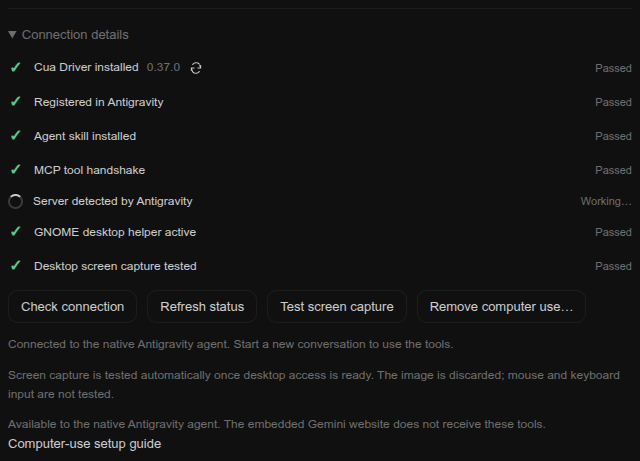
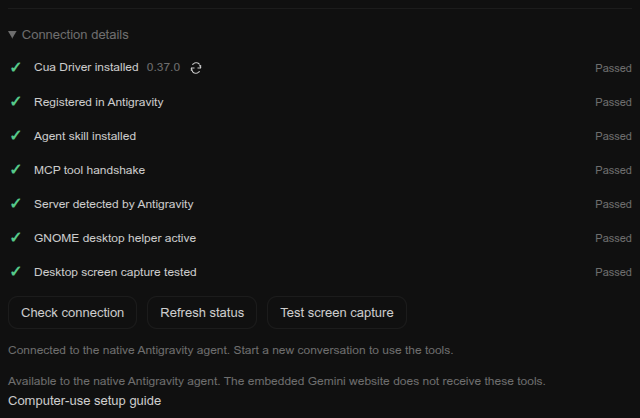
Refine computer-use controls, animate activity indicators and align Settings labels

diff --git a/common/computer-use-settings.js b/common/computer-use-settings.js
@@ -1,7 +1,7 @@
 /* Guided desktop access in a dedicated native Settings page. */
 (() => {
  'use strict';
- const VERSION = '1.4.0';
+ const VERSION = '1.4.1';
  if (globalThis.__AGComputerUse?.version === VERSION) return;
  globalThis.__AGComputerUse?.destroy();
  const i18n = globalThis.__AGPAI18n;
@@ -59,7 +59,12 @@
   t('[data-cu-platform]', loginRequired ? 'Sign out of Linux to activate desktop access' : state.needsHelper ? state.helperInstalled ? 'The GNOME helper is disabled or could not load. Select Repair desktop helper, then refresh status.' : 'The setup will install the GNOME desktop helper. A new sign-in is required to activate it.' : state.session === 'wayland' ? 'Wayland: some apps require foreground input or additional desktop permission.' : state.experimental ? 'Windows support is experimental. Keep the target app visible in your desktop session.' : 'Desktop permissions may be requested when you first use an application.');
   section.querySelector('[data-cu-login-steps]').hidden = !loginRequired;
   t('[data-cu-operation]', state.error ? (errors[state.error] || errors.operationFailed) : working ? 'Working…' : state.enabled ? nativeRefresh ? 'Connected to the native Antigravity agent. Start a new conversation to use the tools.' : 'Start a new agent conversation after connecting. If tools are missing, refresh native MCP settings.' : 'Choose access and enable computer use. Existing Antigravity approvals remain in effect.');
-  t('[data-cu-connect]', working ? 'Preparing computer use…' : state.enabled ? 'Apply access changes' : 'Enable computer use');
+  t('[data-cu-connect]', working ? 'Preparing computer use…' : 'Apply access changes');
+  section.querySelector('[data-cu-connect]').hidden = !state.enabled;
+  const toggle=section.querySelector('[data-cu-toggle]');
+  toggle.setAttribute('aria-checked',String(!!state.enabled));
+  i18n.set(toggle,state.enabled?'Disconnect the agent and keep setup.':'Enable using the access selected below.',{},'title');
+  t('[data-cu-toggle-label]',state.enabled?'Enabled':'Disabled');
   t('[data-cu-removal]', state.removal?.skillRetained ? 'Computer use removed. Your locally edited skill was kept; rename or remove it before setting up again.' : 'Computer use removed. Select Enable computer use for a fresh setup.');
   section.querySelector('[data-cu-removal]').hidden = !state.removal;
   const checks = globalThis.__AGPAComputerUseChecks(state, globalThis.__AGNativeMcp?.status());
@@ -103,6 +108,7 @@
   section.querySelector('[data-cu-capture]').disabled ||= !state.enabled || !!state.needsHelper || state.scope !== 'desktop';
   section.querySelector('[data-cu-helper]').hidden = !state.needsHelper || !state.installed || loginRequired;
   section.querySelector('[data-cu-remove]').disabled ||= !state.installed && !state.registered && !state.skillReady;
+  toggle.disabled = working || !state.platform;
   const updateButton=section.querySelector('[data-cu-updates]');if(updateButton)updateButton.disabled=working||!!update?.checking;
   section.querySelector('[data-cu-progress-close]').disabled=false;section.querySelector('[data-cu-update-close]').disabled=false;
   section.querySelector('[data-cu-progress-stop]').disabled=false;
@@ -168,6 +174,9 @@
   const apps = node('div', {'data-cu-app-scope': '', class: 'agpa-cu-selected'}, node('div', {class: 'agpa-patch-actions'}, select, add), textarea);
   const enable = node('button', {type: 'button', class: 'agpa-app-icon-option agpa-cu-primary', 'data-cu-connect': '', text: 'Enable computer use'});
   enable.addEventListener('click', () => act('setup'));
+  const toggle=node('button',{type:'button',class:'agpa-cu-enable-switch',role:'switch','aria-label':'Computer use','aria-checked':'false','data-cu-toggle':''},
+   node('span',{'data-cu-toggle-label':''}),node('span',{class:'agpa-cu-switch-track','aria-hidden':'true'},node('span',{class:'agpa-cu-switch-thumb'})));
+  toggle.addEventListener('click',()=>act(state.enabled?'disconnect':'setup'));
   const stop = node('button', {type: 'button', class: 'agpa-app-icon-option', 'data-cu-disconnect': '', text: 'Stop and disconnect'});
   stop.addEventListener('click', () => act('disconnect'));
   const advancedActions = node('div', {class: 'agpa-patch-actions'});
@@ -175,9 +184,8 @@
    const button = node('button', {type: 'button', class: 'agpa-app-icon-option', [`data-cu-${key}`]: '', text: label});
    button.addEventListener('click', () => act(action));advancedActions.append(button);
   }
-  const remove = node('button', {type:'button',class:'agpa-app-icon-option','data-cu-remove':'',text:'Remove computer use…'});
+  const remove = node('button', {type:'button',class:'agpa-app-icon-option agpa-cu-danger','data-cu-remove':'',text:'Remove computer use…'});
   remove.addEventListener('click', () => {removal.showModal();cancel.focus();});
-  advancedActions.append(remove);
   const cancel = node('button', {type:'button',class:'agpa-app-icon-option',text:'Cancel'});
   cancel.addEventListener('click', () => removal.close());
   const confirm = node('button', {type:'button',class:'agpa-app-icon-option agpa-cu-danger','data-cu-remove-confirm':'',text:'Remove computer use'});
@@ -210,10 +218,10 @@
    node('p', {text: 'Open Calculator, calculate 6 × 7 and verify the result.'}),
    node('p', {text: 'Check the interface of my app and reproduce the issue visually.'}));
   section = node('section', {class: 'agpa-cu-panel', 'data-agpa-computer-use-setting': ''},
-   node('div', {class: 'agpa-cu-hero'}, node('span', {class: 'agpa-cu-status-dot', 'aria-hidden': 'true'}), node('h3', {'data-cu-connection': '', role: 'status'})),
+   node('div', {class: 'agpa-cu-hero'}, node('span', {class: 'agpa-cu-status-dot', 'aria-hidden': 'true'}), node('h3', {'data-cu-connection': '', role: 'status'}),toggle),
    node('p', {class: 'agpa-cu-summary', 'data-cu-summary': ''}), scopes, apps,
    node('p', {class: 'agpa-cu-muted', text: 'Entire desktop access includes visible screen content. The agent still follows your task and Antigravity approval settings.'}),
-   node('div', {class: 'agpa-patch-actions'}, enable, stop),
+   node('div', {class: 'agpa-cu-controls'}, enable, node('div',{class:'agpa-cu-stop-actions'},stop,remove)),
    node('div', {class: 'agpa-cu-notice'}, node('p', {'data-cu-platform': ''}),
     node('p', {'data-cu-login-steps': '', text: 'Save your work, then choose Log Out / End Session in the Linux system menu and sign in again. Lock / Unlock keeps the same session and does not load the helper. Reopen Antigravity and select Refresh status.'})),
    examples,
@@ -221,7 +229,6 @@
     node('ul', {class:'agpa-cu-checks','data-cu-checks':'','aria-label':'Connection checks'}),
     advancedActions,
     node('p', {class: 'agpa-app-icon-status', 'data-cu-operation': '', role: 'status', 'aria-live': 'polite'}),
-    node('p', {class:'agpa-cu-muted',text:'Screen capture is tested automatically once desktop access is ready. The image is discarded; mouse and keyboard input are not tested.'}),
     removal,node('p',{class:'agpa-cu-notice','data-cu-removal':'',role:'status'}),
     node('p', {class: 'agpa-cu-muted', text: 'Available to the native Antigravity agent. The embedded Gemini website does not receive these tools.'}),
     node('a', {href: 'https://github.com/Riccardo-Vecchi/antigravity-plugin/blob/main/docs/COMPUTER_USE.md', target: '_blank', rel: 'noopener noreferrer', text: 'Computer-use setup guide'})),progressDialog,updateDialog);
@@ -239,6 +246,12 @@
   .agpa-cu-panel{display:flex;flex-direction:column;gap:18px;color:var(--foreground,#eee);font-size:13px}
   .agpa-cu-panel p{margin:0;line-height:1.55}.agpa-cu-hero{display:flex;align-items:center;gap:10px;margin-top:4px}
   .agpa-cu-hero h3{font-size:14px;font-weight:500;margin:0;line-height:1.5}.agpa-cu-status-dot{width:8px;height:8px;flex-shrink:0;background:#888;border-radius:50%}
+  .agpa-cu-enable-switch{display:inline-flex;align-items:center;gap:8px;margin-left:auto;padding:5px 0 5px 10px;border:0;background:transparent;color:inherit;font:inherit;cursor:pointer;white-space:nowrap;flex-shrink:0}
+  .agpa-cu-enable-switch:focus-visible{outline:2px solid #398bdb;outline-offset:4px;border-radius:6px}.agpa-cu-enable-switch:disabled{opacity:.5;cursor:wait}
+  .agpa-cu-switch-track{display:block;position:relative;width:34px;height:20px;background:#666;border-radius:20px}
+  .agpa-cu-switch-thumb{display:block;position:absolute;top:3px;left:3px;width:14px;height:14px;border-radius:50%;background:white}
+  .agpa-cu-enable-switch[aria-checked=true] .agpa-cu-switch-track{background:#398bdb}.agpa-cu-enable-switch[aria-checked=true] .agpa-cu-switch-thumb{left:17px}
+  .agpa-cu-controls{display:flex;align-items:center;justify-content:space-between;gap:12px;flex-wrap:wrap}.agpa-cu-stop-actions{display:flex;gap:8px;margin-left:auto;flex-wrap:wrap}
   .agpa-cu-panel[data-state=enabled] .agpa-cu-status-dot{background:#55c98a}.agpa-cu-panel[data-state=attention] .agpa-cu-status-dot{background:#e5b35e}
   .agpa-cu-panel[data-state=error] .agpa-cu-status-dot{background:#e66d6d}.agpa-cu-summary{color:var(--muted-foreground,#aaa);font-size:14px}
   .agpa-cu-scopes{border:0;padding:0;margin:0;display:grid;grid-template-columns:1fr 1fr;gap:12px}
@@ -264,14 +277,13 @@
   .agpa-cu-confirm:not([open]){display:none}.agpa-cu-confirm[open]{display:flex;flex-direction:column;gap:18px}
   .agpa-cu-confirm::backdrop{background:#0009}.agpa-cu-confirm h3{margin:0;font-size:15px;font-weight:600}
   .agpa-cu-confirm p+p{margin-top:12px}.agpa-cu-confirm .agpa-patch-actions{justify-content:flex-end}
-  .agpa-cu-danger{color:#ef9898!important;border-color:#8e4d4d!important}
-  .agpa-cu-spinner{display:inline-block;box-sizing:border-box;width:15px;height:15px;flex-shrink:0;border:2px solid #7776;border-top-color:currentColor;border-radius:50%;animation:agpa-cu-spin .8s linear infinite}
-  .agpa-cu-rotating{animation:agpa-cu-spin .8s linear infinite}.agpa-cu-confirm h3{display:flex;align-items:center;gap:10px}
+  .agpa-cu-danger{background:#b4232c!important;color:#fff!important;border-color:#c33c45!important}.agpa-cu-danger:hover:not(:disabled){background:#c12b35!important}.agpa-cu-danger:disabled{opacity:.45;cursor:not-allowed}
+  .agpa-cu-spinner{display:inline-block;box-sizing:border-box;width:15px;height:15px;flex-shrink:0;border:2px solid #7776;border-top-color:currentColor;border-radius:50%;animation:agpa-cu-spin .85s linear infinite!important}
+  .agpa-cu-rotating{animation:agpa-cu-spin .85s linear infinite!important}.agpa-cu-confirm h3{display:flex;align-items:center;gap:10px}
   .agpa-cu-progress{width:min(560px,calc(100vw - 48px));max-height:calc(100vh - 48px);overflow:auto}
   .agpa-cu-update-button{display:inline-flex;align-items:center;justify-content:center;vertical-align:middle;margin-left:6px;padding:3px;border:0;border-radius:4px;background:transparent;color:inherit;cursor:pointer}.agpa-cu-update-button:hover{background:#8883}.agpa-cu-update-button:focus-visible{outline:2px solid #398bdb}
   .agpa-cu-confirm a{color:#7ab7f4}.agpa-cu-confirm ul{margin:0}
   @keyframes agpa-cu-spin{to{transform:rotate(360deg)}}
-  @media(prefers-reduced-motion:reduce){.agpa-cu-spinner,.agpa-cu-rotating{animation:none}}
   @media(max-width:700px){.agpa-cu-scopes{grid-template-columns:1fr}}
  `});
  document.head.append(style);

diff --git a/common/settings-navigation.js b/common/settings-navigation.js
@@ -1,7 +1,7 @@
 /* Small, reversible additions to the native Settings navigation. */
 (() => {
  'use strict';
- const VERSION = '1.1.0';
+ const VERSION = '1.1.1';
  if (globalThis.__AGSettingsNavigation?.version === VERSION) return;
  globalThis.__AGSettingsNavigation?.destroy();
  const i18n = globalThis.__AGPAI18n;
@@ -43,7 +43,7 @@
   [data-agpa-cu-active] [data-testid^=settings-nav-item-].bg-sidebar-secondary{background:transparent;color:var(--secondary-foreground,#aaa)}
   [data-agpa-cu-active] [data-testid^=settings-nav-item-].bg-sidebar-secondary>span{color:var(--secondary-foreground,#aaa)}
   [data-agpa-projects-heading]{display:none}
-  [data-agpa-projects-toggle]{display:flex;align-items:center;gap:5px;width:100%;border:0;padding:0;background:none;color:inherit;font:inherit;cursor:pointer;text-align:left}
+  [data-agpa-projects-toggle]{display:flex;align-items:center;gap:5px;width:100%;border:0;padding:0;background:none;color:inherit;font:inherit;font-size:14px;line-height:20px;cursor:pointer;text-align:left}
   [data-agpa-projects-toggle] svg:last-child{margin-left:auto;transition:transform .15s}
   [data-agpa-projects-toggle][aria-expanded=true] svg:last-child{transform:rotate(90deg)}
   [data-agpa-projects-group][data-collapsed=true]{display:none!important}

diff --git a/docs/COMPUTER_USE.md b/docs/COMPUTER_USE.md
@@ -6,7 +6,7 @@ Give the **native Antigravity agent** desktop tools through the maintained [Cua 
 
 1. Open **Settings → Computer use**, its own item in the Settings menu. Settings navigation has icons; its Projects group can be collapsed and uses your configured project appearance.
 2. Choose **Entire desktop** to work across your environment, or **Selected apps** for an application allowlist.
-3. Select **Enable computer use**. A centered progress dialog shows the active step with a spinner, individual checks, and actual downloaded MB. **Continue in background** or Escape hides the dialog while setup continues; **Stop and disconnect** revokes it. Setup downloads the reviewed driver, verifies its SHA-256, installs the GNOME helper when needed, writes this integration's MCP entry and skill, checks the protocol and asks Antigravity to refresh only this server.
+3. Turn on the **Computer use** switch at the top. A centered progress dialog shows the active step with a spinner, individual checks, and actual downloaded MB. **Continue in background** or Escape hides the dialog while setup continues; **Stop and disconnect** revokes it. Setup downloads the reviewed driver, verifies its SHA-256, installs the GNOME helper when needed, writes this integration's MCP entry and skill, checks the protocol and asks Antigravity to refresh only this server.
 4. Follow any OS access prompt. On GNOME/Wayland, the helper needs a **Linux session logout/login once** to load. Save your work, open the system menu → Power → Log Out (on Zorin), then sign in to Linux again. Reopen Antigravity and select **Refresh status**. **Locking/unlocking the screen keeps the same Linux session and does not load the extension.** Closing the app or signing out of Google also does not load it. The wizard never logs you out or restarts your apps.
 5. Start a **new Antigravity conversation** and describe the result you want. Existing conversations can keep their earlier tool list.
 
@@ -16,7 +16,7 @@ Try: “Open Calculator, calculate 6 × 7 and verify the displayed result.” Th
 
 If an upstream app change prevents automatic MCP refresh, use native **Customizations → Installed → MCP Servers**, or its Settings equivalent, and refresh/reopen Antigravity when convenient.
 
-![Computer-use setup progress with per-step spinners and background controls](images/computer-use.png)
+![Computer-use enable switch and Stop/Remove controls](images/computer-use.png)
 
 ![Connection checks with individual passed and pending states](images/computer-use-checks.png)
 
@@ -39,6 +39,14 @@ Changing scope requires **Apply access changes**. It revokes earlier connections
 
 In either mode, the bridge exposes only the reviewed GUI tool set (17 tools for Entire desktop and 14 for Selected apps in driver 0.37.0). It excludes direct shell execution, arbitrary scripts, filesystem tools, process termination and browser-profile attachment. GUI interaction can still modify files, accounts and signed-in applications as part of a task; visible contents may be processed by Antigravity's model. These controls limit this driver, not Antigravity's independent shell access or another process running as your user.
 
+## 🎚 Enable, disable and stop
+
+The top switch reflects the actual connection state. **OFF** revokes desktop access and disconnects the native agent while keeping the installed driver and access choices. **ON** runs setup/reconnection using the access currently selected below; an installed reviewed driver is reused. **Apply access changes** saves scope edits while enabled.
+
+The switch and **Stop and disconnect** share one connection state. Stop is the immediate action that also cancels in-progress setup; there is no separate hidden “enabled but disconnected” state. The red **Remove computer use…** button is immediately to its right and removes managed components after confirmation.
+
+Activity spinners keep rotating even when the OS requests reduced motion, as an explicit exception limited to these work indicators. Other OS motion preferences are unchanged.
+
 ## ⏹ Stop and disconnect
 
 **Stop and disconnect** is always available during setup or while connected. It cancels setup, revokes the lease and removes only the plugin's MCP entry, preserving unrelated servers. The bridge checks revocation every 300 ms, requests graceful shutdown and forces exit if needed. An action already delivered cannot be undone. Driver files, scope choices and the owned skill remain available for reconnecting.
@@ -47,7 +55,7 @@ The platform disable scripts also disconnect computer use. In Selected apps mode
 
 ## ♻ Remove and set up again
 
-Open **Settings → Computer use → Connection details → Remove computer use…** and confirm in the centered dialog. Cancel or press Escape to keep the setup. This revokes the connection, removes only the plugin's own MCP entry, deletes its verified managed driver, setup preferences and unchanged generated skill. Then choose **Enable computer use** to download and configure it again.
+Open **Settings → Computer use → Remove computer use…**, the red button beside **Stop and disconnect**, and confirm in the centered dialog. Cancel or press Escape to keep the setup. This revokes the connection, removes only the plugin's own MCP entry, deletes its verified managed driver, setup preferences and unchanged generated skill. Then turn on the top switch to download and configure it again.
 
 Other MCP servers, conversations, Antigravity/Gemini data, other Cua installations and the **shared WinRects GNOME extension** remain untouched. A locally edited skill is preserved and reported: rename or remove it yourself before a fresh setup. Unrecognized driver folders or missing/invalid receipts stop removal instead of deleting unknown files. Use **Repair desktop helper** for a disabled or failed helper; reinstallation is unnecessary when it only needs the next Linux sign-in.
 

diff --git a/README.md b/README.md
@@ -6,7 +6,7 @@
 
 # 🧩 Antigravity Plugin
 
-[![Version 1.2.0](https://img.shields.io/badge/version-1.2.0-blue)](CHANGELOG.md)
+[![Version 1.2.1](https://img.shields.io/badge/version-1.2.1-blue)](CHANGELOG.md)
 [![Checks](https://github.com/Riccardo-Vecchi/antigravity-plugin/actions/workflows/checks.yml/badge.svg?branch=main)](https://github.com/Riccardo-Vecchi/antigravity-plugin/actions/workflows/checks.yml)
 [![Linux verified](https://img.shields.io/badge/Linux-verified-brightgreen)](docs/CONFIGURATION.md)
 [![Windows experimental](https://img.shields.io/badge/Windows-experimental-orange)](windows/README.md)
@@ -72,9 +72,9 @@ Open **Antigravity (customized)** from the Start menu for subsequent launches. T
 
 ## ⚙ Settings and updates
 
-**Computer use** has its own Settings page. Choose **Entire desktop** or **Selected apps**, then select **Enable computer use**: the wizard installs the reviewed driver and connects it to Antigravity over MCP. The progress dialog shows the current step and actual downloaded bytes; it can continue in the background. The wizard refreshes the native MCP server when the app supports it; start a new agent conversation after connecting. Linux is the primary implementation; Windows remains experimental. The embedded Gemini website does not receive desktop tools.
+**Computer use** has its own Settings page. Choose **Entire desktop** or **Selected apps**, then turn on the switch at the top: the wizard installs the reviewed driver and connects it to Antigravity over MCP. The progress dialog shows the current step and actual downloaded bytes; it can continue in the background. The wizard refreshes the native MCP server when the app supports it; start a new agent conversation after connecting. Linux is the primary implementation; Windows remains experimental. The embedded Gemini website does not receive desktop tools.
 
-On GNOME/Wayland, newly installed desktop access needs one **Linux logout/login** (locking and unlocking is insufficient). The page explains the steps; closing the app or signing out of Google is insufficient. **Connection details** shows a green check for each passed check, an orange dot for pending checks and a spinner for the active step. Screen capture is tested automatically once desktop access is ready. The refresh icon beside the Cua Driver version checks official upstream releases without replacing the reviewed driver. **Remove computer use…** resets the plugin-managed setup for reinstallation, preserving unrelated integrations and the shared GNOME helper.
+On GNOME/Wayland, newly installed desktop access needs one **Linux logout/login** (locking and unlocking is insufficient). The page explains the steps; closing the app or signing out of Google is insufficient. **Connection details** shows a green check for each passed check, an orange dot for pending checks and a spinner for the active step. Screen capture is tested automatically once desktop access is ready. The refresh icon beside the Cua Driver version checks official upstream releases without replacing the reviewed driver. The top switch connects/disconnects while keeping setup; **Stop and disconnect** also cancels an in-progress setup. The red **Remove computer use…** button beside Stop resets the plugin-managed setup for reinstallation, preserving unrelated integrations and the shared GNOME helper.
 
 **Shortcuts** lets you record, save, reset or disable the view-switch shortcut. **Appearance** contains app-icon choices; **Application → Startup** contains launch behavior; **Application → Local customizations** contains status and recovery.
 

diff --git a/windows/README.md b/windows/README.md
@@ -102,3 +102,9 @@ Windows desktop testing was deliberately limited for this revision. The automate
 ## 🖱 Computer use
 
 Open **Settings → Computer use** for optional Cua Driver installation, entire-desktop or selected-application access, MCP checks and disconnection. See the [computer-use guide](../docs/COMPUTER_USE.md) for setup, OS permissions and validation limits.
+
+### Confidence and remaining validation
+
+Computer use already has a Windows x64 adapter, official driver/UI Automation helper extraction, and the shared MCP bridge, scope controls, wizard and settings. The enable switch, red removal button and activity indicators use that shared interface; they do not require a separate Windows UI implementation.
+
+A source review alone cannot establish live reliability for Windows applications, elevated windows, display scaling, multiple monitors or interactive/locked/remote sessions. These remain target-system validation questions. No Windows runtime tests or VM runs were performed for this revision; Windows computer use remains **experimental**, not production-verified.

diff --git a/CHANGELOG.md b/CHANGELOG.md
@@ -1,5 +1,12 @@
 # Changelog
 
+## 1.2.1
+
+- Add a top-level enable/disable switch sharing the existing connection state; keep setup when switched off.
+- Move removal beside Stop and disconnect, style it red, and remove the redundant capture-explanation paragraph.
+- Keep activity spinners rotating under reduced-motion preferences, without changing the OS setting.
+- Match the Settings Projects label to the other navigation entries at 14 px and clarify Windows confidence limits after source review.
+
 ## 1.2.0
 
 - Show a setup progress dialog with real phase labels, downloaded bytes, per-step spinners and background/Stop controls.
